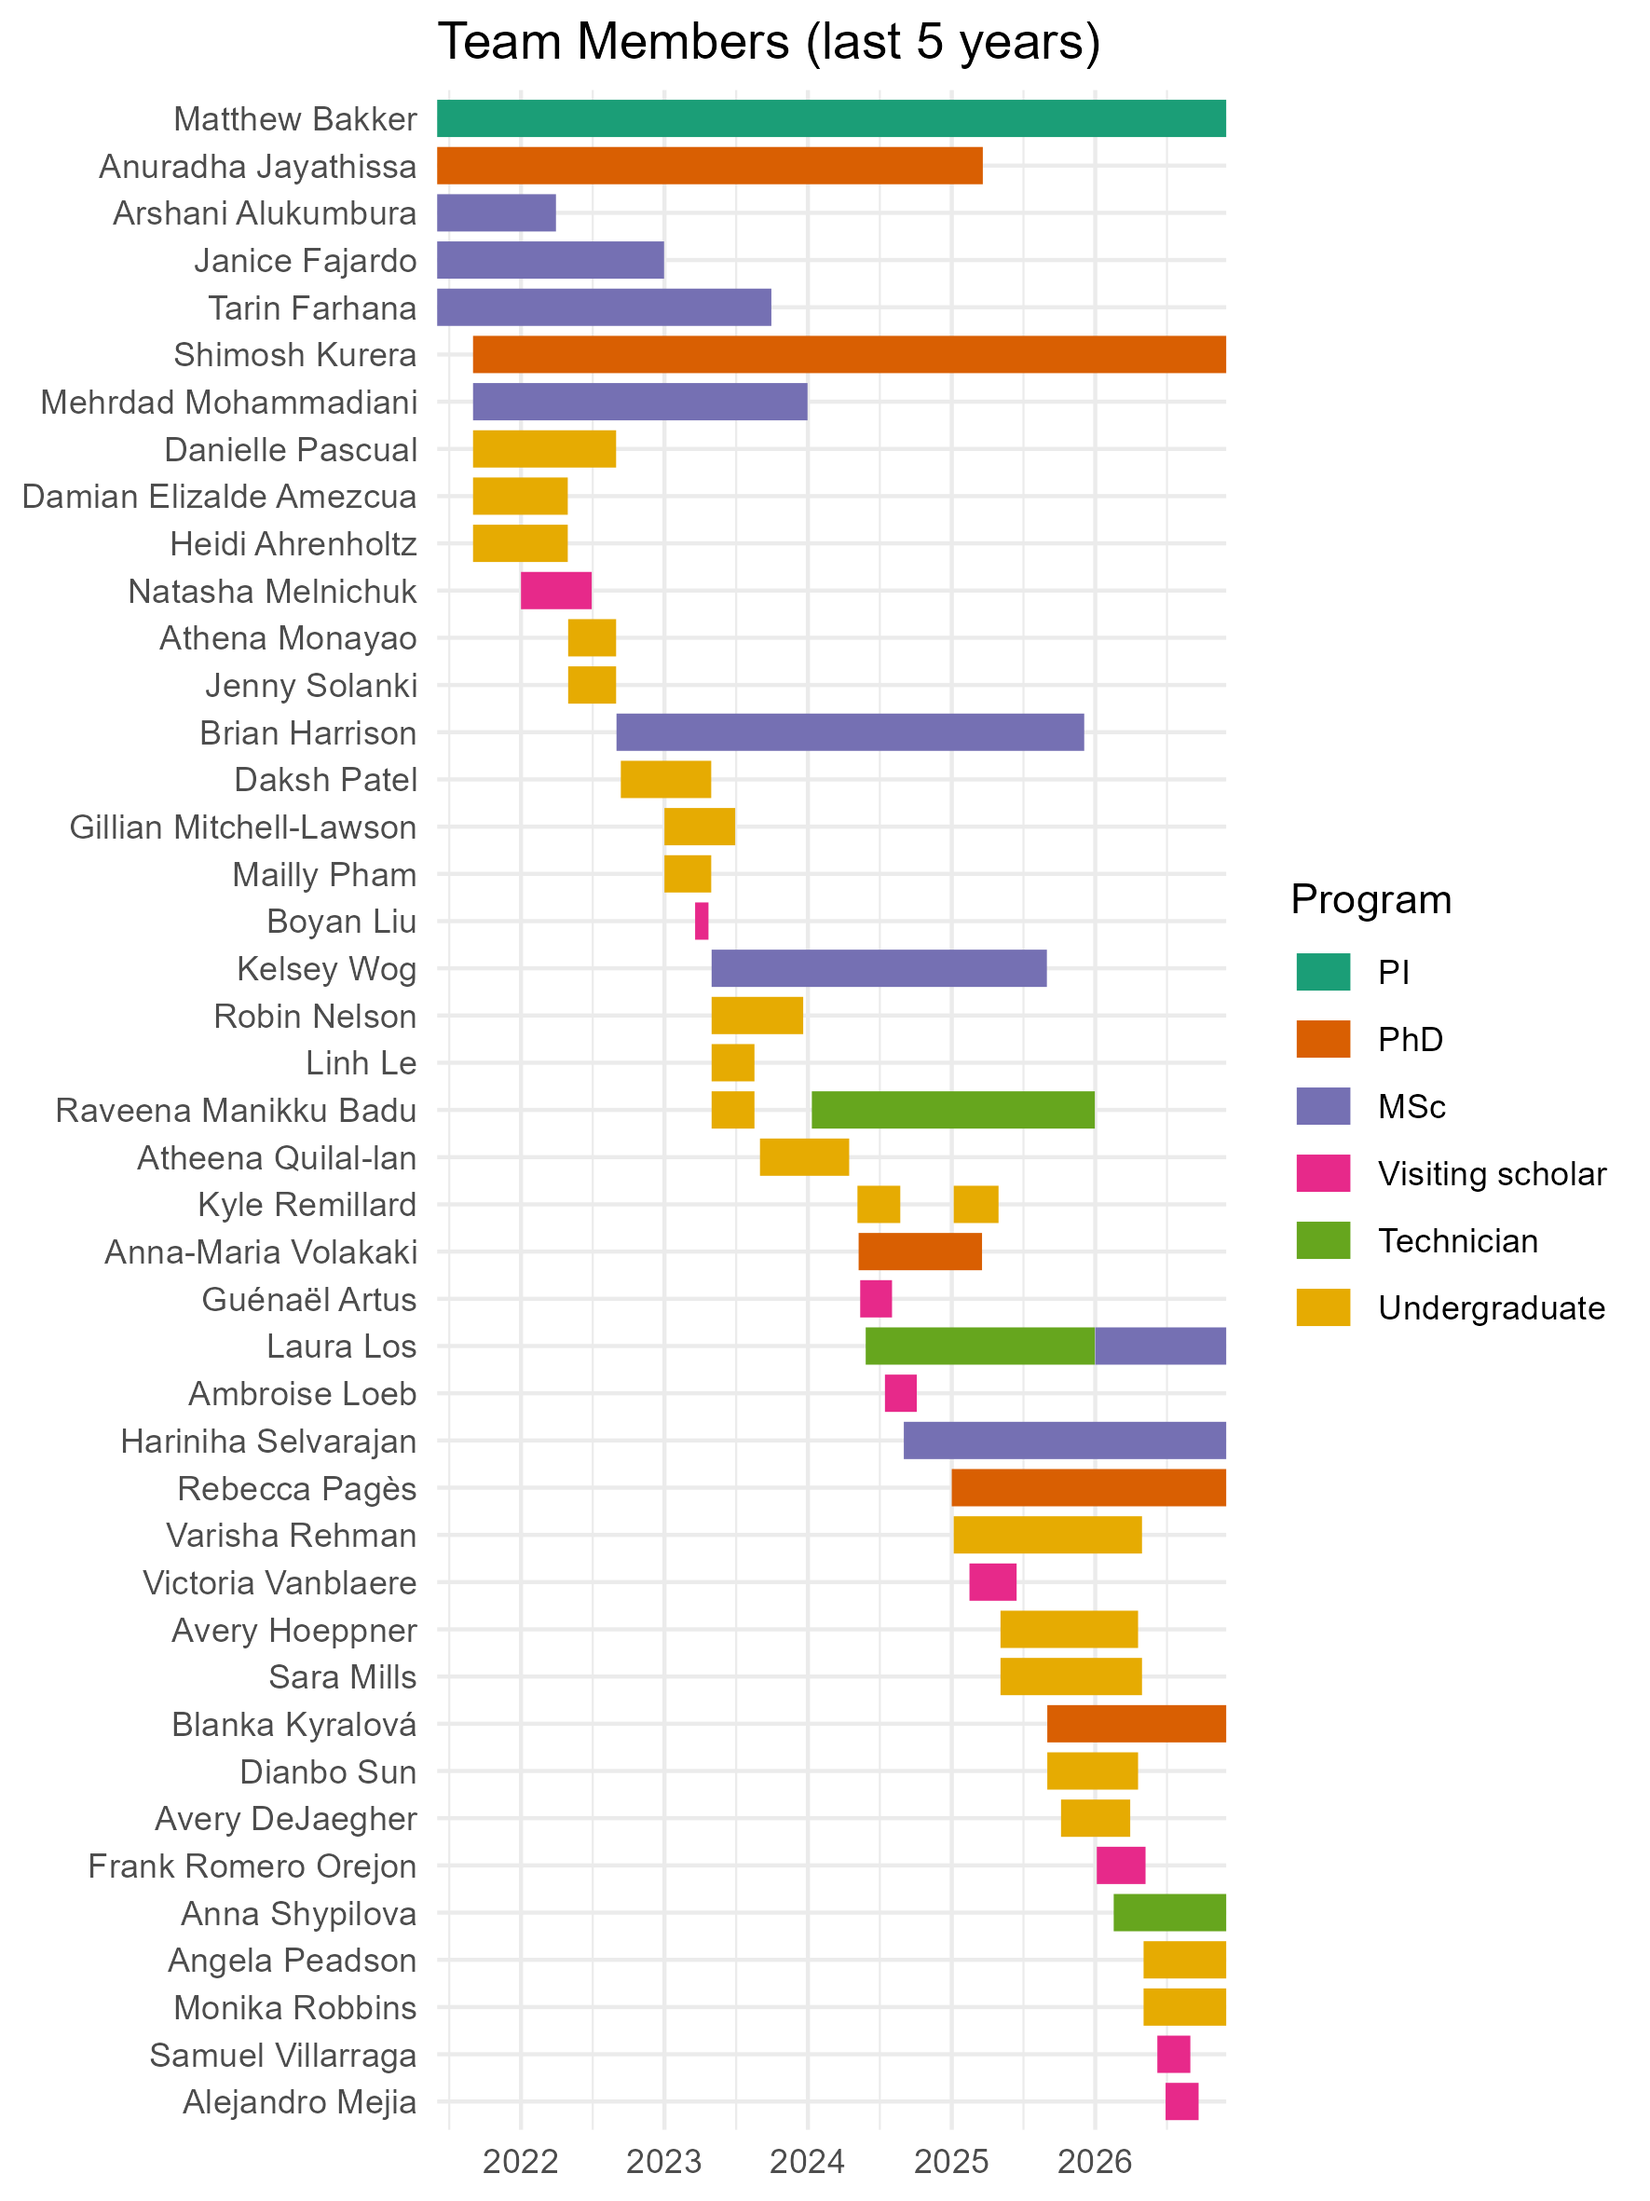
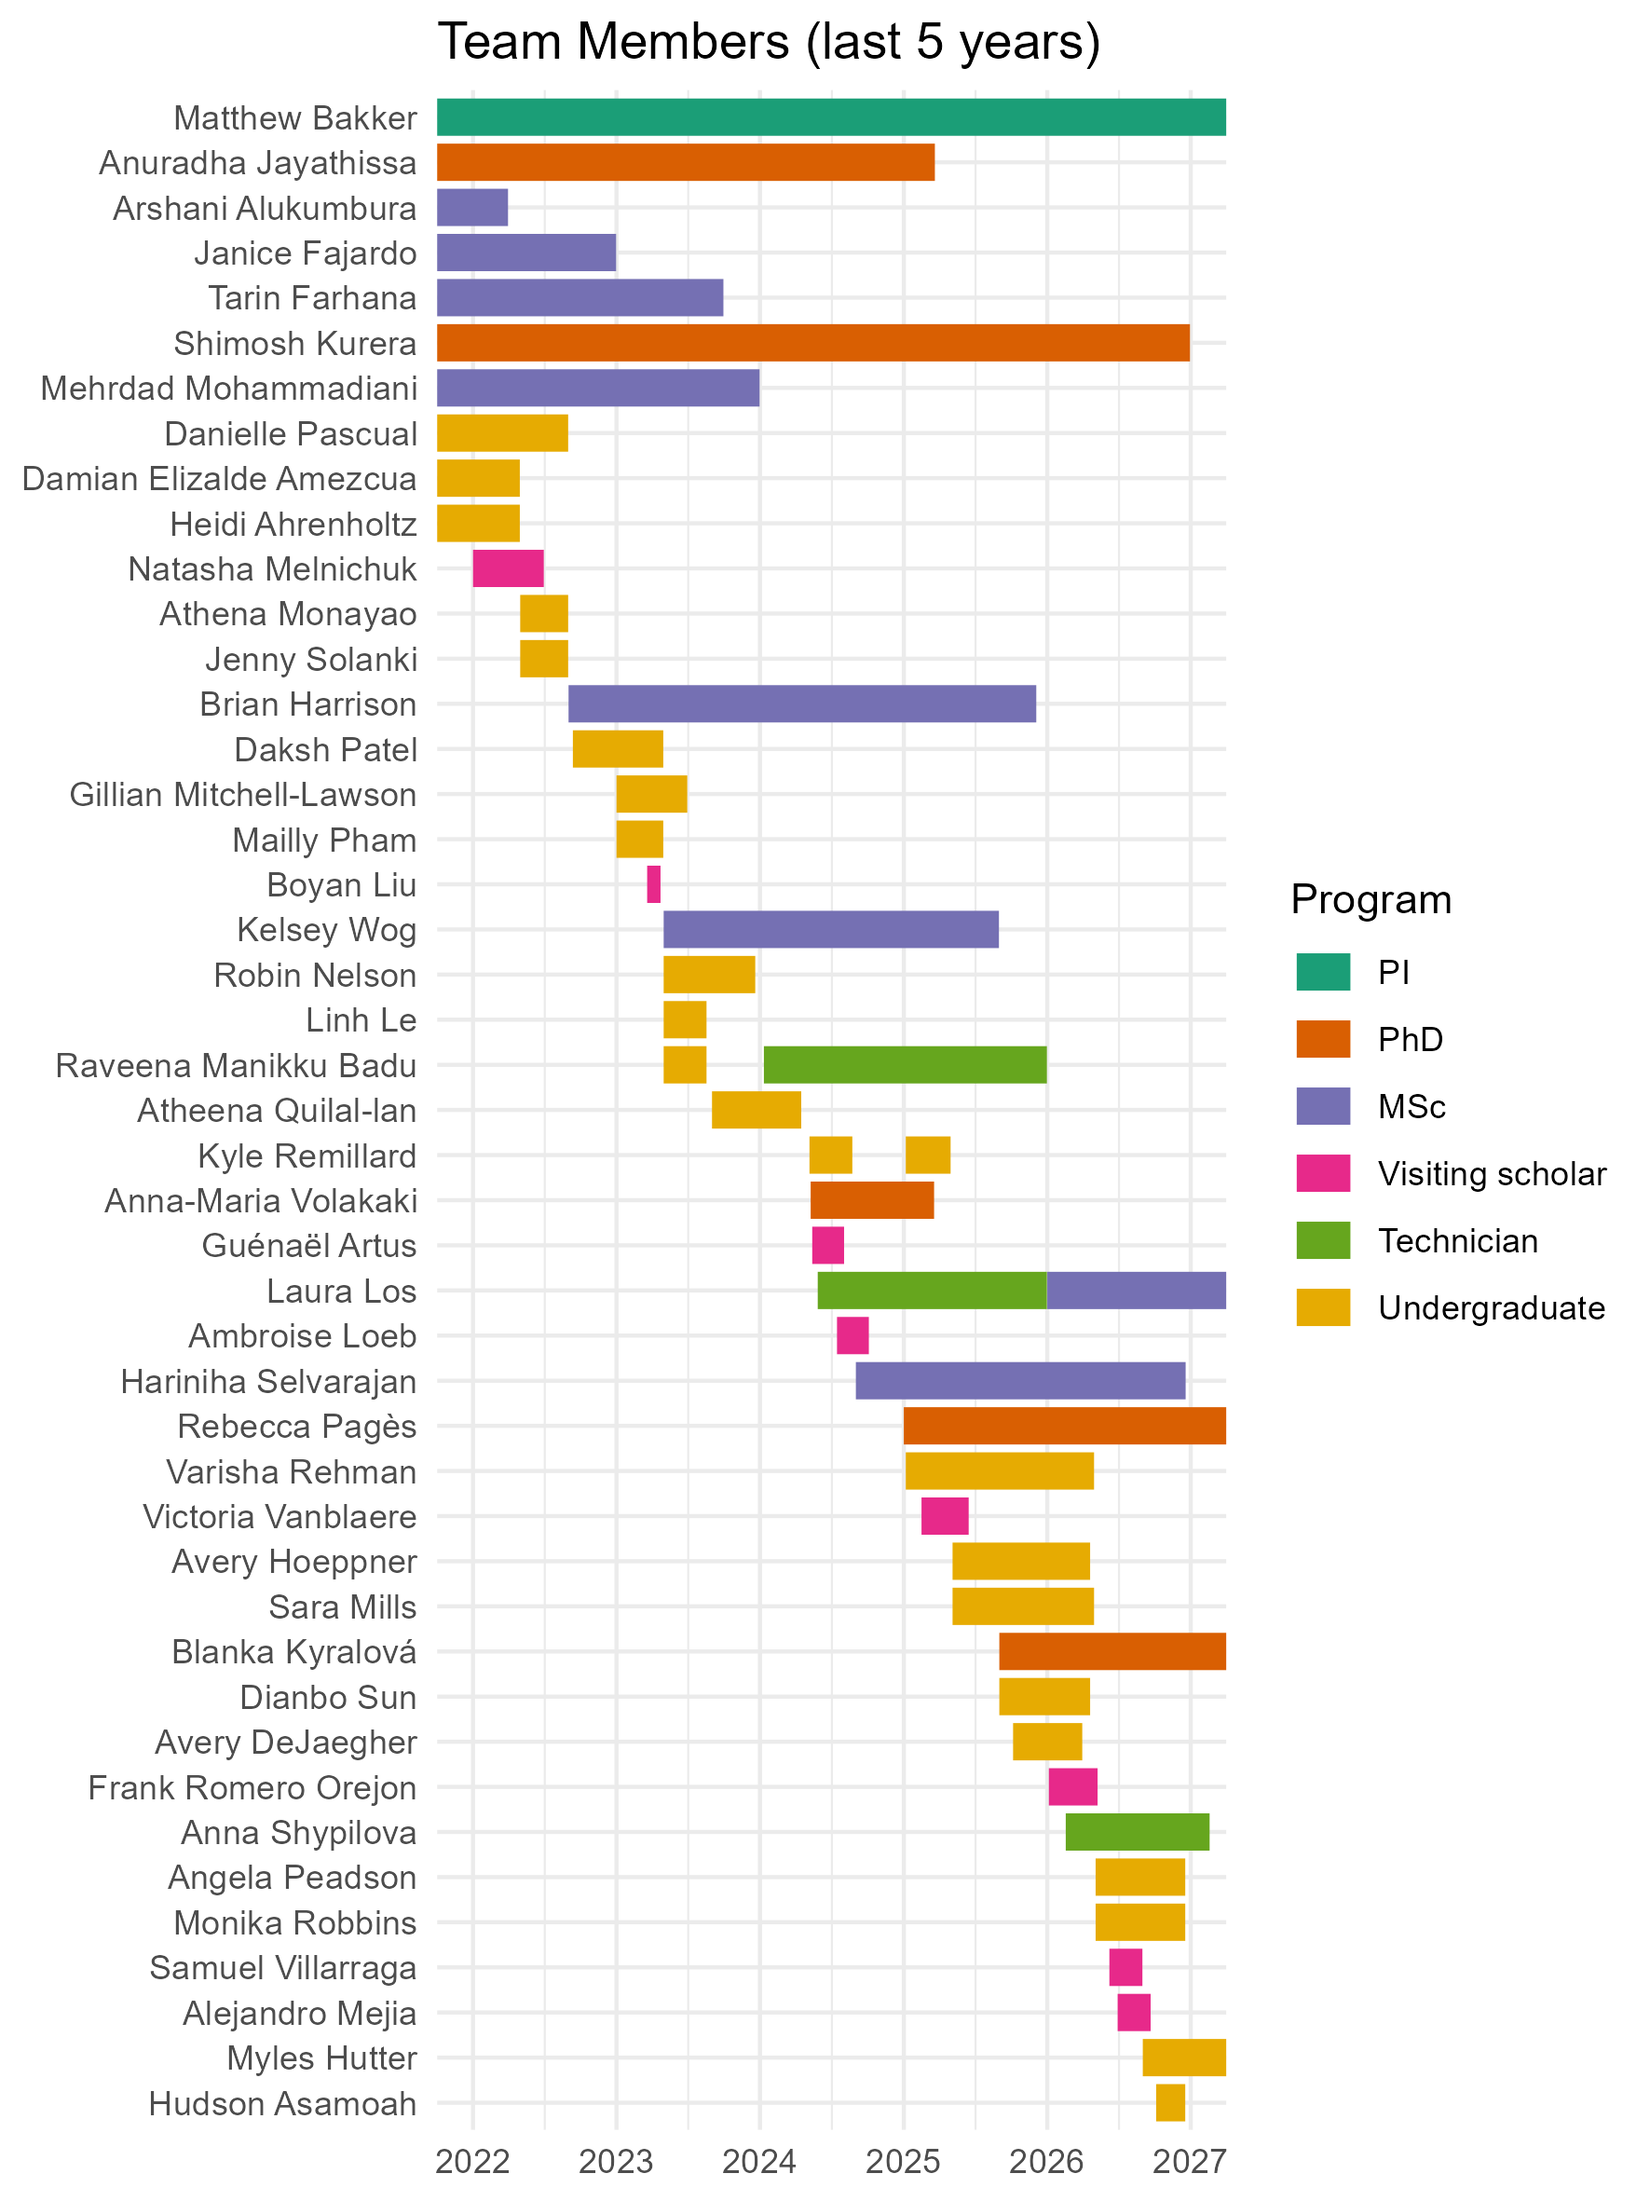
update personnel

diff --git a/team.html b/team.html
@@ -589,39 +589,13 @@ plant polyamines.</p>
 <p>
 </br>
 </p>
-<p><img src="media/Villarraga_Samuel.png" alt="" width="30%" style = "float:left; padding:10px" style="display: block; margin: auto auto auto 0;" /></p>
+<p><img src="media/Hutter_Myles.JPEG" alt="" width="30%" style = "float:left; padding:10px" style="display: block; margin: auto auto auto 0;" /></p>
 </div>
-<div id="samuel-villarraga" class="section level3">
-<h3><a
-href="https://www.linkedin.com/in/samuel-botero-villarraga-06a732399/"
-target="_blank">Samuel Villarraga</a></h3>
-<p><em>Visiting intern, through Mitacs Globalink.</em><br />
-Samuel is screening ureolytic microorganisms to explore the effects of
-urease inhibitors on urea fertilizer efficiency.</p>
-<p>
-</br>
-</p>
-<p>
-</br>
-</p>
-<p>
-</br>
-</p>
-<p>
-</br>
-</p>
-<p>
-</br>
-</p>
-<p>
-</br>
-</p>
-<p><img src="media/Mejia_Alejandro.jpeg" alt="" width="30%" style = "float:left; padding:10px" style="display: block; margin: auto auto auto 0;" /></p>
-</div>
-<div id="alejandro-mejia" class="section level3">
-<h3>Alejandro Mejia</h3>
-<p><em>Visiting intern, through Mitacs Globalink.</em><br />
-Alejandro is researching enzymes produced by <em>Fusarium
+<div id="myles-hutter" class="section level3">
+<h3><a href="https://www.linkedin.com/in/myles-hutter-860277211/"
+target="_blank">Myles Hutter</a></h3>
+<p><em>Undergraduate Honours research.</em><br />
+Myles is investigating fungicide resistance in <em>Fusarium
 graminearum</em>.</p>
 <p>
 </br>
@@ -635,6 +609,19 @@ graminearum</em>.</p>
 <p>
 </br>
 </p>
+<p>
+</br>
+</p>
+<p>
+</br>
+</p>
+</div>
+<div id="hudson-asamoah" class="section level3">
+<h3><a href="https://www.linkedin.com/in/hudsonasamoah/"
+target="_blank">Hudson Asamoah</a></h3>
+<p><em>Undergraduate research support.</em><br />
+Hudson is helping us quantify abundances of bacterial genes related to
+formation of greenhouse gases.</p>
 <p>
 </br>
 </p>
@@ -699,6 +686,12 @@ href="https://www.frontiersin.org/articles/10.3389/fmicb.2022.972016/full"
 target="_blank">Minimal impacts on the wheat microbiome when
 <em>Trichoderma gamsii</em> T6085 is applied as a biocontrol agent to
 manage fusarium head blight disease.</a></p>
+<p><a
+href="https://www.linkedin.com/in/samuel-botero-villarraga-06a732399/"
+target="_blank">Samuel Villarraga</a> <em>Mitacs Globalink visiting
+scholar</em><br />
+</p>
+<p>Alejandro Mejia, <em>Mitacs Globalink visiting scholar</em></p>
 <p><a href="https://www.linkedin.com/in/anna-maria-volakaki-3626b1295/"
 target="_blank">Anna Volakaki</a>, <em>Graduate student</em></p>
 <p>Frank Romero, <em>MSc student intern</em></p>
